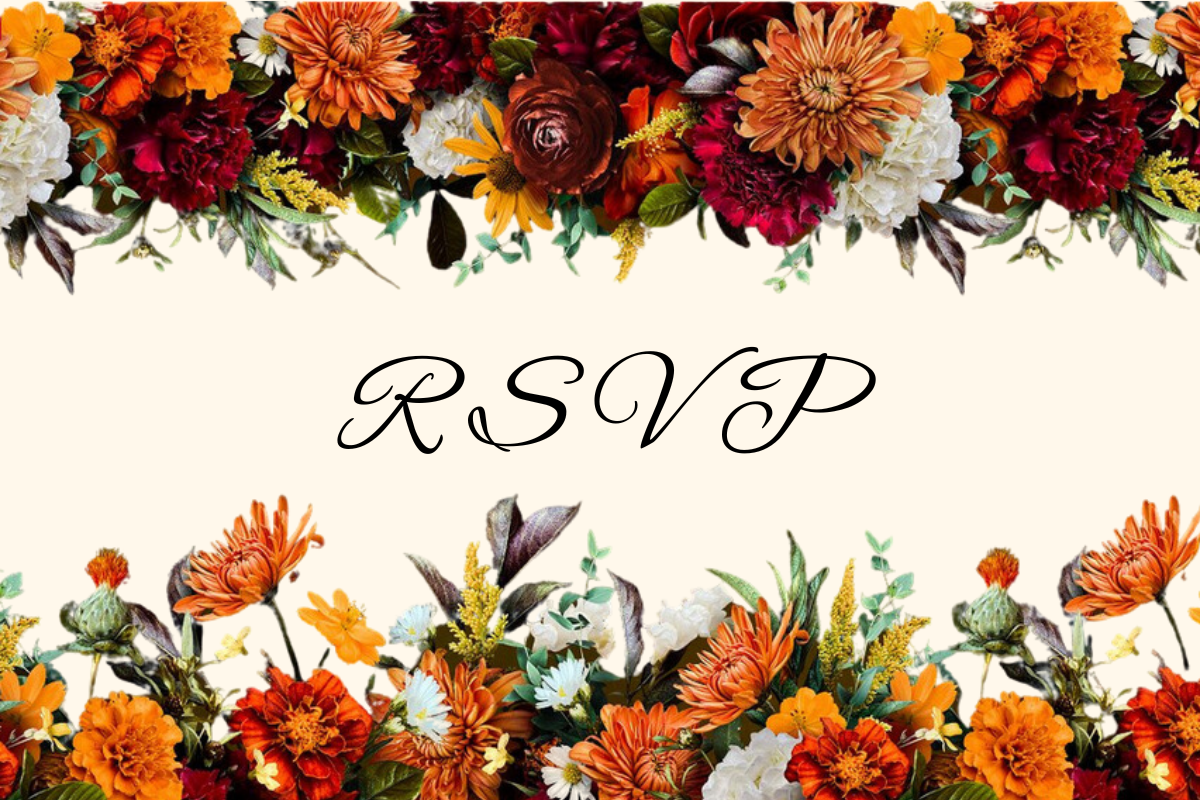
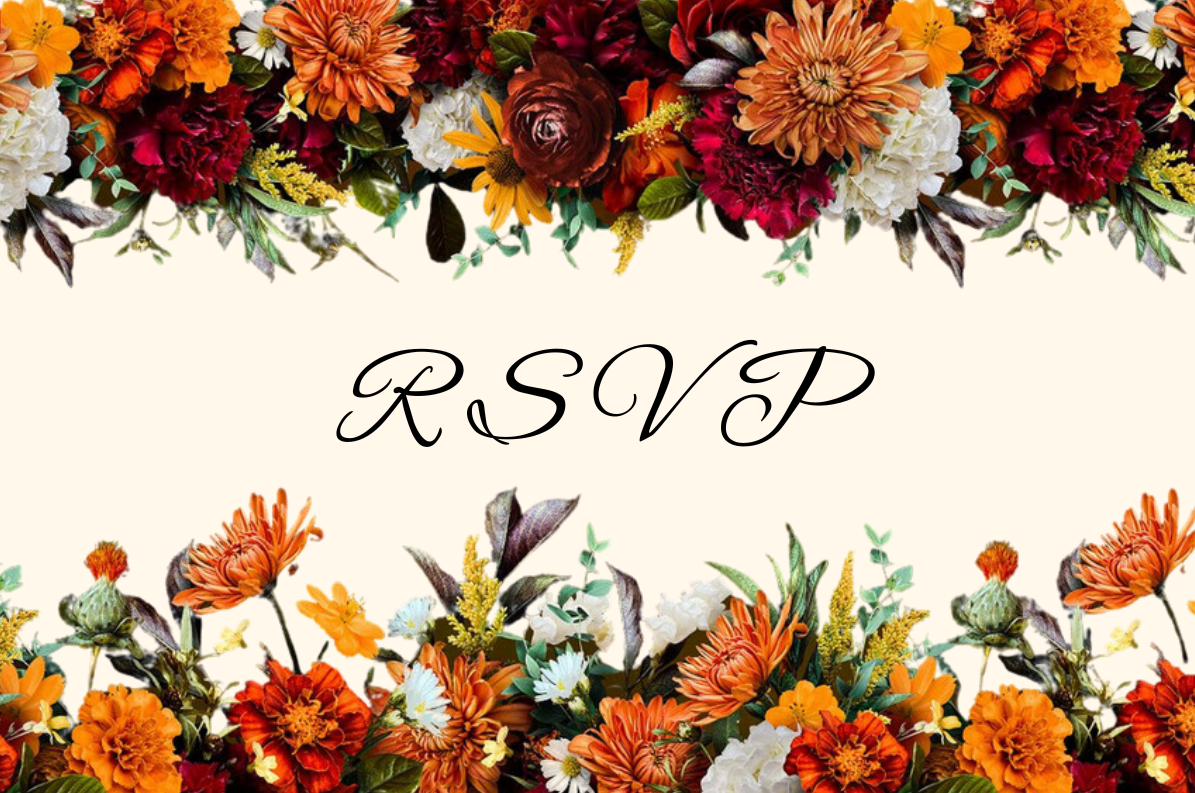
Small changes in CSS

diff --git a/bigday/static/bigday/css/creative.css b/bigday/static/bigday/css/creative.css
@@ -9,6 +9,7 @@ body {
     width: 100%;
     height: 100%;
     font-size: 16px;
+    background-color: #FFF8EB;
 }
 
 body {
@@ -17,7 +18,7 @@ body {
 
 hr {
     max-width: 50px;
-    border-color: #f05f40;
+    border-color: #9C1A1A;
     border-width: 3px;
 }
 
@@ -26,7 +27,7 @@ hr.light {
 }
 
 a {
-    color: #f05f40;
+    color: #9C1A1A;
     -webkit-transition: all .35s;
     -moz-transition: all .35s;
     transition: all .35s;
@@ -34,7 +35,7 @@ a {
 
 a:hover,
 a:focus {
-    color: #eb3812;
+    color: #ffffff;
 }
 
 h1,
@@ -54,7 +55,7 @@ p {
 
 
 .bg-primary {
-    background-color: #f05f40;
+    background-color: #FFF8EB;
 }
 
 .bg-primary a {
@@ -64,7 +65,11 @@ p {
 
 .bg-dark {
     color: #fff;
-    background-color: #222;
+    background-color: #da7134;
+}
+
+.bg-info {
+    background-color: #ffdd9f;
 }
 
 .text-faded {
@@ -150,7 +155,7 @@ aside {
 
     .navbar-default .nav > li>a:hover,
     .navbar-default .nav>li>a:focus:hover {
-        color: rgb(28,56,81);
+        color: #fff;
     }
 
     .navbar-default.affix {
@@ -354,7 +359,7 @@ header .header-content .header-content-inner p {
 }
 
 .text-primary {
-    color: #f05f40;
+    color: #9C1A1A
 }
 
 .no-gutter > [class*=col-] {
@@ -459,12 +464,12 @@ fieldset[disabled] .btn-primary:active,
 .btn-primary.disabled.active,
 .btn-primary[disabled].active,
 fieldset[disabled] .btn-primary.active {
-    border-color: #f05f40;
-    background-color: #f05f40;
+    border-color: #9C1A1A
+    background-color: #9C1A1A
 }
 
 .btn-primary .badge {
-    color: #f05f40;
+    color: #9C1A1A
     background-color: #fff;
 }
 
@@ -489,7 +494,7 @@ fieldset[disabled] .btn-primary.active {
 ::selection {
     text-shadow: none;
     color: #fff;
-    background: #222;
+    background: rgb(28,56,81);
 }
 
 img::selection {
@@ -511,3 +516,47 @@ body {
     background-color: #222;
     padding-bottom: 30px;
 }
+
+
+.polna:hover .polna__img:not(:hover) {
+    filter: grayscale(100%);
+    opacity: 0.75;
+  }
+  
+  .polna:hover .polna__img:not(:hover)::after {
+    background-color: rgba(#000, 0.5);
+  }
+  
+  @media (min-width: 30rem) {
+    .polna {
+      grid-template-columns: repeat(3, 150px);
+    }
+  }
+  
+  .polna__img {
+    position: relative;
+    cursor: pointer;
+    transition: .3s;
+  }
+  
+  .polna__img::after {
+    content: '';
+    top: 0;
+    left: 0;
+    width: 100%;
+    height: 100%;
+    background-color: rgba(#000, 0);
+    transition: .3s;
+  }
+  
+  .polna__img img {
+    display: block;
+    width: 100%;
+    max-width: 100%;
+  }
+
+  .polna__img:hover {
+    transform: scale(1.5);
+    z-index: 100;
+    position:relative;
+  }

diff --git a/bigday/templates/partials/polna.html b/bigday/templates/partials/polna.html
@@ -7,14 +7,14 @@
             <hr class="primary">
             <p><a href="https://www.polnazdroj.com" target=”_blank”>Polna Zdrój</a> to ponad 200-letnie, odrestaurowane przez znanego polskiego architekta, siedlisko w urokliwym miasteczku <a href="https://goo.gl/maps/ZMykdPfjeuuZ3Jp3A" target=”_blank”>Wleń</a> na Dolnym Śląsku, które znajduje się 20 km od Jeleniej Góry. Zabudowania mają wyjątkowo malownicze usytuowanie - na rozległej skarpie z widokiem na pasmo Karkonoszy.</p>		
             <div class="container-fluid">
-                <div class="row">
-                    <div class="col-lg-4 col-sm-6">
+                <div class="row polna">
+                    <div class="col-lg-4 col-sm-6 polna__img">
                             <img src="{% static 'bigday/images/polna/ogrod4.jpg' %}" class="img-responsive" alt="">
                     </div>
-                    <div class="col-lg-4 col-sm-6">
+                    <div class="col-lg-4 col-sm-6 polna__img">
                             <img src="{% static 'bigday/images/polna/stol.jpg' %}" class="img-responsive" alt="">
                     </div>
-                    <div class="col-lg-4 col-sm-6">
+                    <div class="col-lg-4 col-sm-6 polna__img">
                             <img src="{% static 'bigday/images/polna/kominkowy.jpg' %}" class="img-responsive" alt="">
                     </div>
                 </div>

diff --git a/bigday/templates/partials/event.html b/bigday/templates/partials/event.html
@@ -15,7 +15,7 @@
                         Pamiętajcie o wygodnym stroju (w końcu to grill, a nie żaden bankiet &#128521;), a wszelkie troski i zmartwienia zostawcie w domu!
                     </p>
                     <p>
-                        Jak wszystkie wydarzenia tego weekendu, tak również i to odbywa się w <a href="https://goo.gl/maps/ZMykdPfjeuuZ3Jp3A" target=”_blank”>Polnej</a>, zatem będziecie mieć okazję wybadać teren przed sobotą &#128521;
+                        Jak wszystkie wydarzenia tego weekendu, tak również i to, odbywa się w <a href="https://goo.gl/maps/ZMykdPfjeuuZ3Jp3A" target=”_blank”>Polnej</a>, zatem będziecie mieć okazję wybadać teren przed sobotą &#128521;
                     </p>
                 </div>
             </div>
